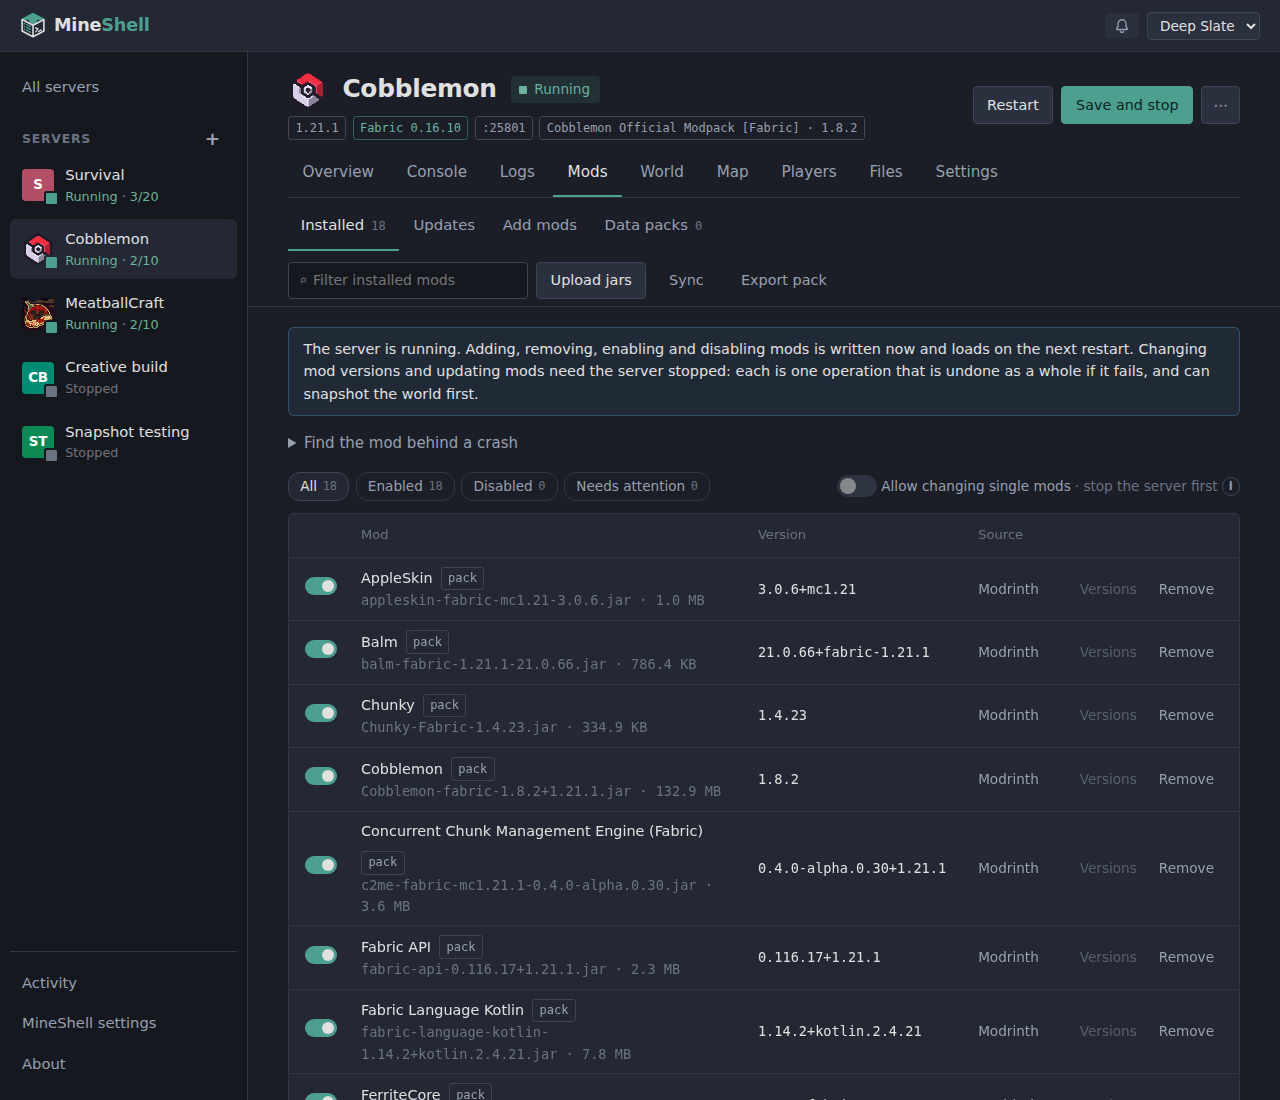
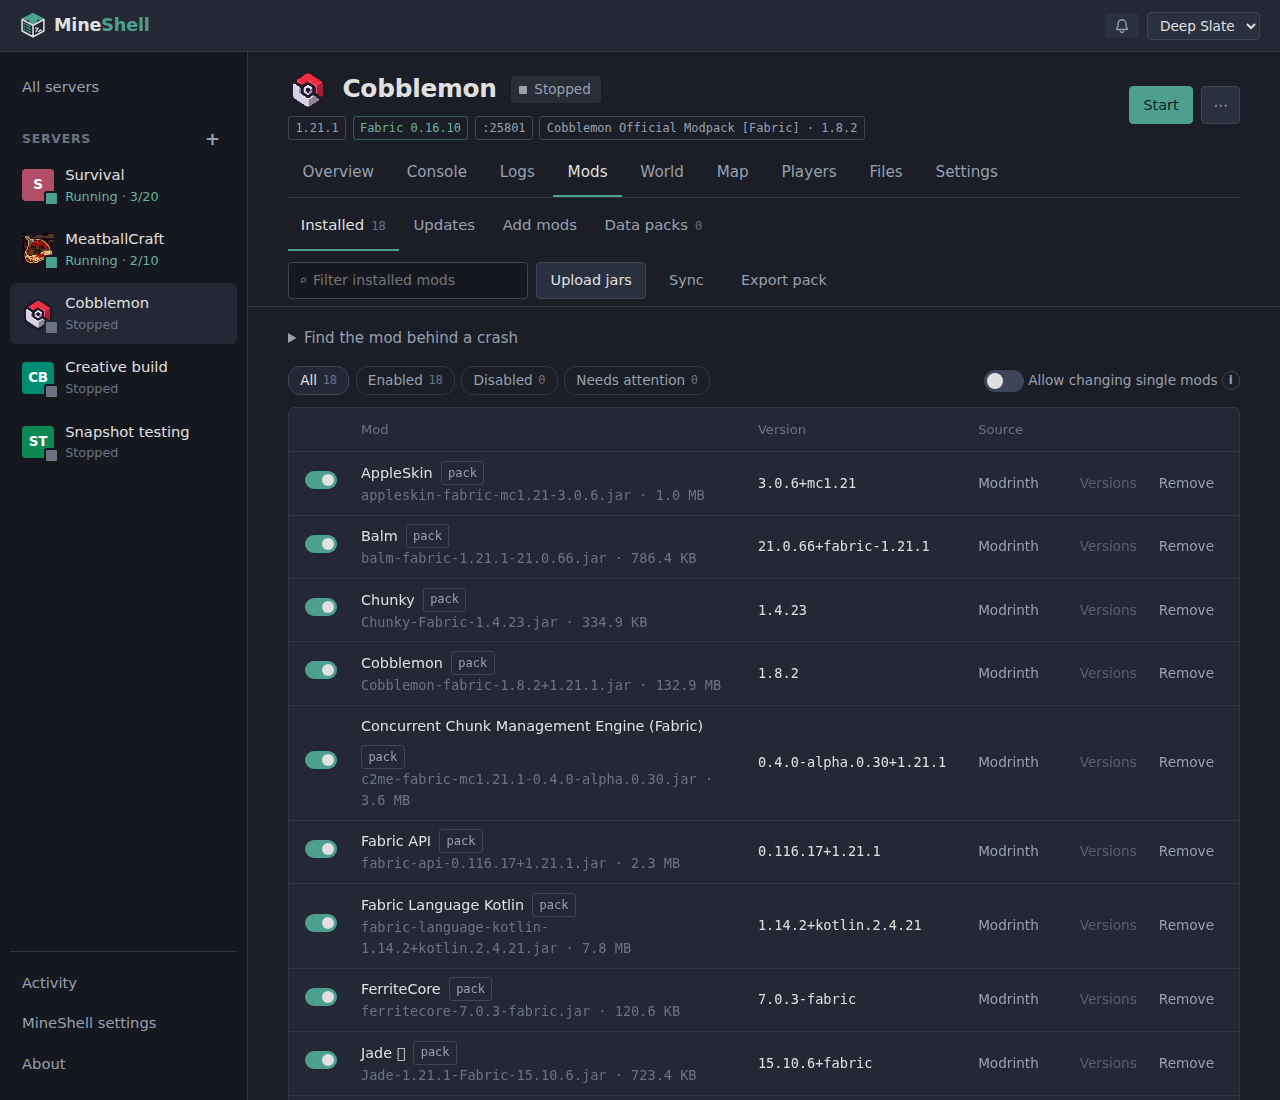
docs: Cobblemon is stopped in the screenshots, so two fakes hold memory instead of three
Each fake server holds the memory its overview shows (MineShell reads the
unit's real use), about 3 GB for Cobblemon. It is now stopped three hours
ago: its performance samples end there and today's run ends with the
stop. Survival (26.3) and MeatballCraft (Cleanroom) still run.

diff --git a/tests/tools/screenshots/README.md b/tests/tools/screenshots/README.md
@@ -22,8 +22,8 @@ Modrinth, and the page loads mod icons.
 ## The parts
 
 - **`scenes.mjs`**: the world, as an ordered list of scenes, all run every time. `servers`
-  (five servers, tags; running: vanilla 26.3, the Cobblemon pack on Fabric 1.21.1 and
-  MeatballCraft on Cleanroom 1.12.2), `history` (a day of CPU/memory samples, a week of runs
+  (five servers, tags; running: vanilla 26.3 and MeatballCraft on Cleanroom 1.12.2; the
+  Cobblemon pack on Fabric 1.21.1 stopped three hours ago), `history` (a day of CPU/memory samples, a week of runs
   and player sessions), `mods` (Cobblemon's mods from Modrinth, MeatballCraft's ~370 from
   CurseForge through the modpacks.ch mirror, with their real sizes). A scene gets a context
   (`run.mjs`, `Context`): `ctx.server({...})`, `ctx.tag(name, ids)`, `ctx.mod(id, {...})`,
